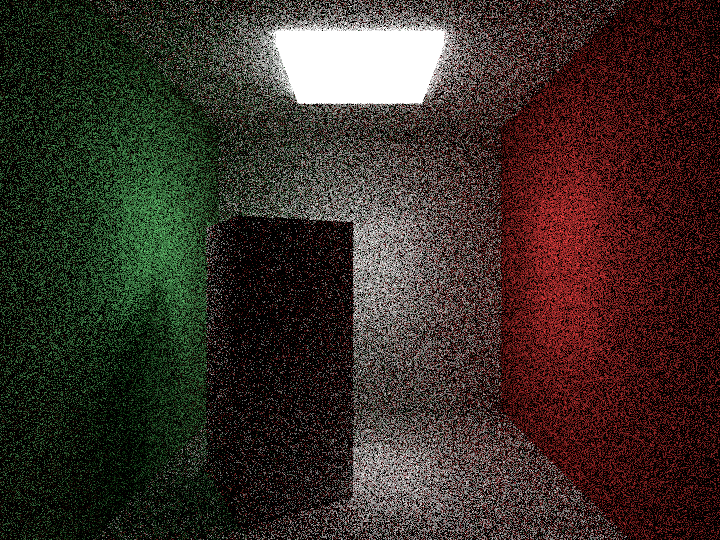
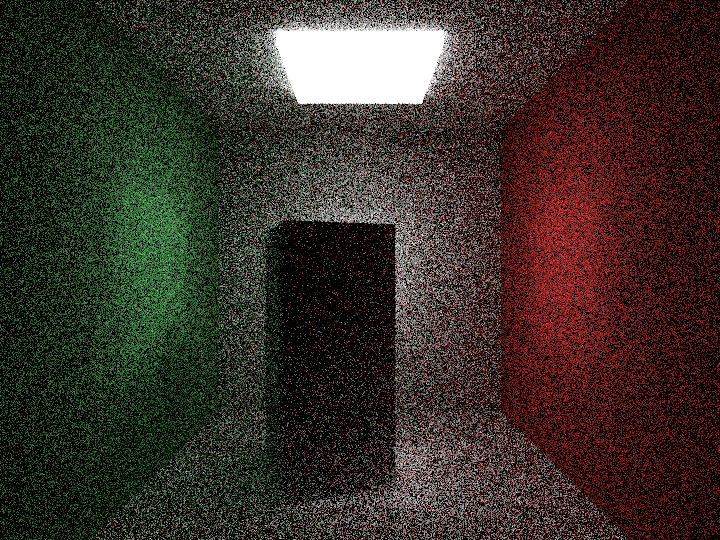
[MOD] 1. add class Component; 2. finish transformation;

diff --git a/engine/rrt/obj/AARectangle.cpp b/engine/rrt/obj/AARectangle.cpp
@@ -5,7 +5,6 @@
 #include "AARectangle.h"
 #include "AABB.h"
 #include "Ray.h"
-#include "Hittable.h"
 
 #include "Logger.h"
 
@@ -20,9 +19,9 @@ AARectangle::AARectangle(const glm::vec3& center, const glm::vec3& front, const 
 			 , m_lbFrontPt(0.f), m_lbBackPt(0.f), m_ltFrontPt(0.f), m_ltBackPt(0.f)
 	         , m_rbFrontPt(0.f), m_rbBackPt(0.f), m_rtFrontPt(0.f), m_rtBackPt(0.f)
 	         , m_front(glm::normalize(front)), m_right(1.f, 0.f, 0.f), m_up(0.f, 1.f, 0.f)
-	         , m_rotateMat(1.f), m_aabb(new AABB)
+	         , m_aabb(new AABB)
 	         , m_width(size.x), m_height(size.y), m_thickness(size.z)
-	         , m_dataChange(true), m_ro(false)
+	         , m_dataChange(true)
 {
 	apply();
 }
@@ -37,8 +36,6 @@ void AARectangle::apply()
 	if (m_dataChange.load())
 	{
 		m_dataChange.store(false);
-
-		m_front = m_rotateMat* glm::vec4(m_front, 0.f);
 
 		glm::vec3 worldUp{ 0.f, 1.f, 0.f };
 		if (m_front == worldUp || m_front == glm::vec3(0.f, -1.f, 0.f))
@@ -83,20 +80,6 @@ void AARectangle::apply()
 	}
 }
 
-void AARectangle::rotate(float angle, const glm::vec3& axis)
-{
-	glm::mat4 I{ 1.f };
-	I = glm::rotate(I, glm::radians(angle), axis);
-	m_rotateMat = I * m_rotateMat;
-	m_dataChange.store(true);
-}
-
-void AARectangle::resetRotate()
-{
-	m_rotateMat = glm::mat4(1.f);
-	m_dataChange.store(true);
-}
-
 bool AARectangle::boundingBox(AABB& box) const
 {
 	box = *m_aabb;
@@ -111,20 +94,8 @@ glm::vec3 AARectangle::center() const
 bool AARectangle::hit(const Ray& ray, float tStart, float tEnd, HitRecord& record) const
 {
 	Ray inputRay = ray;
-
-	if (m_ro)
-	{
-		glm::vec3 origin = inputRay.origin();
-		glm::vec3 dir = inputRay.direction();
-
-		glm::mat4 m{ 1.f };
-		m = glm::rotate(m, glm::radians(-30.f), glm::vec3(0.f, 1.f, 0.f));
-		origin = m * glm::vec4(origin, 1.f);
-		dir = m * glm::vec4(dir, 0.f);
-
-		inputRay.setOrigin(origin);
-		inputRay.setDirection(dir);
-	}
+	RrtCompArg arg;
+	processAllComp(inputRay, arg);
 
 	glm::vec3 dir = inputRay.direction();
 	glm::vec3 invDir = 1.f / dir;
@@ -154,13 +125,11 @@ bool AARectangle::hit(const Ray& ray, float tStart, float tEnd, HitRecord& recor
 			record.hitInd = -1;
 			return false;
 		}
-		if (m_ro)
-		{
-			glm::mat4 m{ 1.f };
-			m = glm::rotate(m, glm::radians(30.f), glm::vec3(0.f, 1.f, 0.f));
-			record.pt = m * glm::vec4(record.pt, 1.f);
-			record.n = m * glm::vec4(record.n, 0.f);
-		}
+		RrtCompArg arg;
+		Ray tmpRay(record.pt, record.n);
+		postProcessAllComp(tmpRay, arg);
+		record.pt = tmpRay.origin();
+		record.n = tmpRay.direction();
 		return true;
 	}
 	else 
@@ -287,9 +256,4 @@ void AARectangle::setSize(float width, float height, float thickness)
 	m_height = height;
 	m_thickness = thickness;
 	m_dataChange.store(true);
-}
-
-void AARectangle::setRotate()
-{
-	m_ro = true;
 }

diff --git a/engine/rrt/obj/include/Hittable.h b/engine/rrt/obj/include/Hittable.h
@@ -3,6 +3,9 @@
 
 #include <memory>
 #include <glm/glm.hpp>
+#include <map>
+
+#include "RrtComponent.h"
 
 class Ray;
 class RrtMaterial;
@@ -19,12 +22,82 @@ struct HitRecord
 	HitRecord() : pt(0.f), n(0.f), t(0.f), u(0.f), v(0.f), hitInd(-1), hit(false), frontFace(false) {}
 };
 
-class Hittable
+class Assemble
 {
 public:
-	Hittable() : m_matl(nullptr) {}
-	Hittable(const std::shared_ptr<RrtMaterial> &material) : m_matl(material) {}
-	virtual ~Hittable() { m_matl.reset(); }
+	Assemble() : m_components() {}
+	virtual ~Assemble()
+	{
+		auto itr = m_components.begin();
+		while (itr != m_components.end())
+		{
+			itr->second.reset();
+			itr = m_components.erase(itr);
+		}
+	}
+
+	inline void addComp(RrtCompType type, const std::shared_ptr<RrtComponent> &comp)
+	{
+		auto itr = m_components.find(type);
+		if (itr == m_components.end())
+		{
+			m_components.emplace(std::make_pair(type, comp));
+		}
+		else
+		{
+			itr->second = comp;
+		}
+	}
+
+	inline void deleteComp(RrtCompType type)
+	{
+		auto itr = m_components.find(type);
+		if (itr != m_components.end())
+		{
+			itr->second.reset();
+			m_components.erase(itr);
+		}
+	}
+
+	inline const std::shared_ptr<RrtComponent>& getComponent(RrtCompType type) const
+	{
+		auto itr = m_components.find(type);
+		if (itr != m_components.end())
+		{
+			return itr->second;
+		}
+		return std::shared_ptr<RrtComponent>();
+	};
+
+	inline void processAllComp(Ray& ray, RrtCompArg& arg) const
+	{
+		auto itr = m_components.begin();
+		while (itr != m_components.end())
+		{
+			itr->second->process(ray, arg);
+			itr++;
+		}
+	};
+
+	inline void postProcessAllComp(Ray& ray, RrtCompArg& arg) const
+	{
+		auto itr = m_components.begin();
+		while (itr != m_components.end())
+		{
+			itr->second->postProcess(ray, arg);
+			itr++;
+		}
+	};
+protected:
+	std::map<RrtCompType, std::shared_ptr<RrtComponent>> m_components;
+};
+
+class Hittable : public Assemble
+{
+public:
+	Hittable() : Assemble(), m_matl(nullptr) {}
+	Hittable(const std::shared_ptr<RrtMaterial> &material) : Assemble(), m_matl(material) {}
+	virtual ~Hittable()  { m_matl.reset(); }
 
 	inline const std::shared_ptr<RrtMaterial>& getMatl() const { return m_matl; };
 	inline void setMatl(const std::shared_ptr<RrtMaterial>& matl) { m_matl = matl; }

diff --git a/engine/rrt/attr/RrtTransform.cpp b/engine/rrt/attr/RrtTransform.cpp
@@ -1,0 +1,57 @@
+#include <cmath>
+#include <glm/gtc/matrix_transform.hpp>
+
+#include "RrtTransform.h"
+#include "Ray.h"
+
+#include "Logger.h"
+
+#ifdef LOCAL_TAG
+#undef LOCAL_TAG
+#endif
+#define LOCAL_TAG "RrtTransform"
+
+RrtTransform::RrtTransform() : RrtComponent()
+                             , m_translation(0.f)
+                             , m_rotateAxis(1.f, 0.f, 0.f)
+                             , m_rotateAngle(0.f)
+{
+}
+
+RrtTransform::~RrtTransform() = default;
+
+void RrtTransform::process(Ray& ray, RrtCompArg& arg)
+{
+	glm::vec3 origin = ray.origin();
+	glm::vec3 dir = ray.direction();
+
+	glm::mat4 mat{ 1.f };
+
+	mat = glm::translate(mat, -m_translation);
+	mat = glm::rotate(mat, glm::radians(-m_rotateAngle), m_rotateAxis);
+
+	// excute rotation first, then translation
+	origin = mat * glm::vec4(origin, 1.f);
+	dir = mat * glm::vec4(dir, 0.f);
+
+	ray.setOrigin(origin);
+	ray.setDirection(dir);
+}
+
+void RrtTransform::postProcess(Ray& ray, RrtCompArg& arg)
+{
+	glm::vec3 origin = ray.origin();
+	glm::vec3 dir = ray.direction();
+
+	glm::mat4 mat{ 1.f };
+
+	mat = glm::translate(mat, m_translation);
+	mat = glm::rotate(mat, glm::radians(m_rotateAngle), m_rotateAxis);
+
+	// excute rotation first, then translation
+	origin = mat * glm::vec4(origin, 1.f);
+	dir = mat * glm::vec4(dir, 0.f);
+
+	ray.setOrigin(origin);
+	ray.setDirection(dir);
+}

diff --git a/engine/rrt/obj/include/AARectangle.h b/engine/rrt/obj/include/AARectangle.h
@@ -23,12 +23,9 @@ public:
 	virtual bool hit(const Ray& ray, float tStart, float tEnd, HitRecord& record) const override;
 
 	void apply();
-	void rotate(float angle, const glm::vec3& axis);
-	void resetRotate();
 	void setCenter(const glm::vec3& center);
 	void setFront(const glm::vec3 &front);
 	void setSize(float width, float height, float thickness);
-	void setRotate();
 
 private:
 	bool hitPtNormal(const glm::vec3 pt, const glm::vec3 center, glm::vec3 &out) const;
@@ -37,11 +34,9 @@ private:
 	glm::vec3 m_lbFrontPt, m_lbBackPt, m_ltFrontPt, m_ltBackPt;
 	glm::vec3 m_rbFrontPt, m_rbBackPt, m_rtFrontPt, m_rtBackPt;
 	glm::vec3 m_front, m_right, m_up;
-	glm::mat4 m_rotateMat;
 	std::shared_ptr<AABB> m_aabb;
 	float m_width, m_height, m_thickness;
 	std::atomic<bool> m_dataChange;
-	bool m_ro;
 };
 
 #endif

diff --git a/engine/rrt/RrtTest.cpp b/engine/rrt/RrtTest.cpp
@@ -21,6 +21,7 @@
 #include "Sphere.h"
 #include "AARectangle.h"
 #include "HittableList.h"
+#include "RrtTransform.h"
 
 #include "LambDiffuse.h"
 #include "Metal.h"
@@ -280,8 +281,10 @@ void RrtTest::scene2(HittableList& world, glm::vec3& backgroundColor, const std:
 		glm::vec3(0.5f, 1.2f, 0.6f),
 		std::make_shared<LambDiffuse>(glm::vec3(0.73f, 0.73f, 0.73f)));
 
-	//todo: wrap it as a component
-	rectangle->setRotate();
+	std::shared_ptr<RrtTransform> trans = std::make_shared<RrtTransform>();
+	trans->setTranslation(glm::vec3(0.25f, 0.f, 0.f));
+	trans->setRotate(20.f, glm::vec3(0.f, 1.f, 0.f));
+	rectangle->addComp(RRT_TRANSFORM, trans);
 
 	world.add(left);
 	world.add(right);

diff --git a/engine/rrt/attr/include/RrtTransform.h b/engine/rrt/attr/include/RrtTransform.h
@@ -1,0 +1,30 @@
+#ifndef RRT_TRANSFORM_H
+#define RRT_TRANSFORM_H
+
+#include <glm/glm.hpp>
+
+#include "RrtComponent.h"
+
+class RrtTransform : public RrtComponent
+{
+public:
+	RrtTransform();
+	virtual ~RrtTransform();
+
+	virtual void process(Ray& ray, RrtCompArg& arg) override;
+	virtual void postProcess(Ray& ray, RrtCompArg& arg) override;
+
+	inline void setTranslation(const glm::vec3& trans) { m_translation = trans; }
+	inline void setRotate(float angle, const glm::vec3& axis) 
+	{ 
+		m_rotateAngle = angle;
+		m_rotateAxis = axis;
+	}
+
+private:
+	glm::vec3 m_translation;
+	glm::vec3 m_rotateAxis;
+	float m_rotateAngle;
+};
+
+#endif

diff --git a/engine/rrt/attr/include/RrtComponent.h b/engine/rrt/attr/include/RrtComponent.h
@@ -1,0 +1,35 @@
+#ifndef RRT_COMPONENT_H
+#define RRT_COMPONENT_H
+
+#include <cstdint>
+
+class Ray;
+
+struct RrtCompArg
+{
+	float   argFloat;
+	int32_t argInt32;
+	void    *ptr;
+
+	RrtCompArg() : argFloat(0.f)
+		         , argInt32(0)
+		         , ptr(nullptr)
+	{}
+};
+
+enum RrtCompType : uint8_t
+{
+	RRT_TRANSFORM
+};
+
+class RrtComponent
+{
+public:
+	RrtComponent() {};
+	virtual ~RrtComponent() = default;
+
+	virtual void process(Ray &ray, RrtCompArg&arg) = 0;
+	virtual void postProcess(Ray& ray, RrtCompArg& arg) = 0;
+};
+
+#endif
